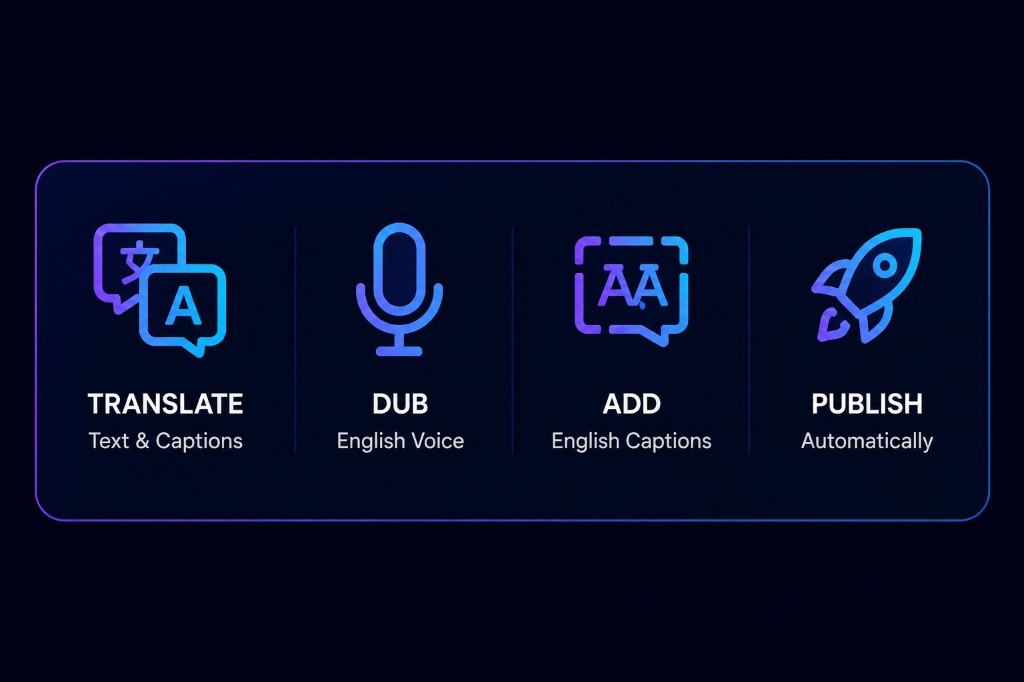
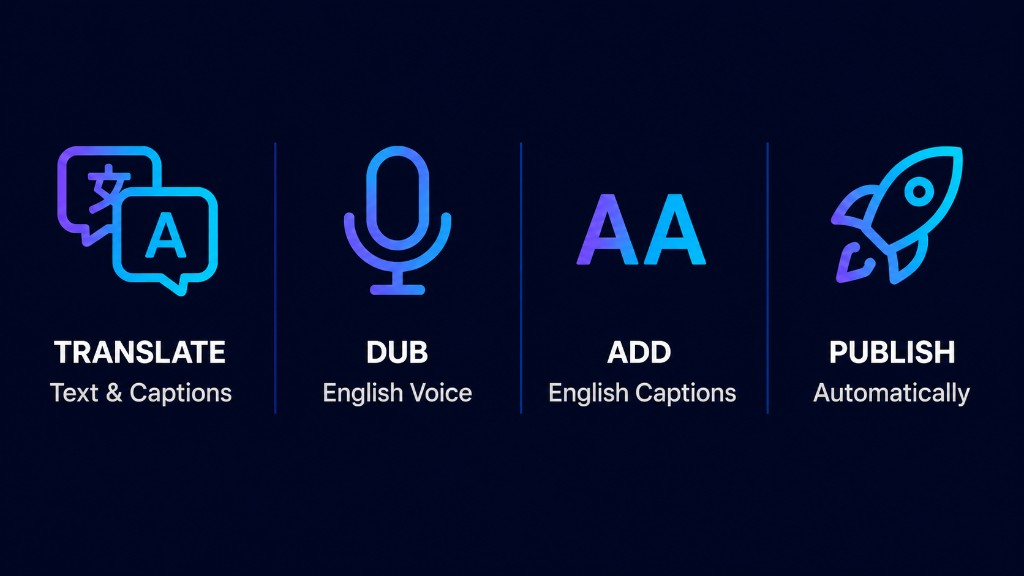
updates to project images

Changed region(s): [[0.0312, 0.2188, 0.9688, 0.7812], [0.5625, 0.3438, 0.6875, 0.5312], [0.3125, 0.5625, 0.4688, 0.7188]]

diff --git a/src/style.css b/src/style.css
@@ -554,6 +554,38 @@ body::-webkit-scrollbar {
   color: rgba(228, 173, 106, 0.98);
 }
 
+.project-card__thumb {
+  flex-shrink: 0;
+  margin-top: 0.5rem;
+  width: clamp(8.15rem, 22vw, 9.85rem);
+  aspect-ratio: 16 / 9;
+  border-radius: 8px;
+  overflow: hidden;
+  box-shadow: 0 4px 20px rgba(0, 0, 0, 0.35);
+  transition: box-shadow 0.18s ease;
+}
+
+/*
+ * Pipeline preview is ~16:9 but has black bars inside the file. A slightly wider
+ * aspect than 16/9 makes object-fit:cover trim top/bottom (no bitmap stretch).
+ */
+.project-card__thumb--bleed {
+  aspect-ratio: 2.15 / 1;
+}
+
+.project-card__thumb--bleed .project-card__image {
+  width: 100%;
+  height: 100%;
+  margin-top: 0;
+  aspect-ratio: unset;
+  min-height: 0;
+  object-fit: cover;
+  object-position: center;
+  display: block;
+  border-radius: 0;
+  box-shadow: none;
+}
+
 .project-card__image {
   width: clamp(8.15rem, 22vw, 9.85rem);
   flex-shrink: 0;
@@ -568,6 +600,11 @@ body::-webkit-scrollbar {
     filter 0.18s ease,
     box-shadow 0.18s ease,
     border-color 0.18s ease;
+}
+
+/* Spotify preview: biased to top, nudged right of hard-left so a bit more right edge shows */
+.project-card__image--focus-left {
+  object-position: 22% top;
 }
 
 .project-card__image--slot {
@@ -659,6 +696,16 @@ body::-webkit-scrollbar {
 .project-card__link:hover .project-card__image:not(.project-card__image--slot),
 .project-card__link:focus-visible .project-card__image:not(.project-card__image--slot) {
   filter: brightness(1.02) saturate(0.96);
+  box-shadow: 0 8px 28px rgba(0, 0, 0, 0.4);
+}
+
+.project-card__link:hover .project-card__thumb .project-card__image,
+.project-card__link:focus-visible .project-card__thumb .project-card__image {
+  box-shadow: none;
+}
+
+.project-card__link:hover .project-card__thumb,
+.project-card__link:focus-visible .project-card__thumb {
   box-shadow: 0 8px 28px rgba(0, 0, 0, 0.4);
 }
 
@@ -1383,6 +1430,12 @@ body::-webkit-scrollbar {
   .project-card__link:focus-visible {
     background: rgba(170, 96, 58, 0.26);
     border-color: transparent;
+  }
+
+  .project-card__thumb {
+    width: 100%;
+    max-width: 15.5rem;
+    margin-top: 0;
   }
 
   .project-card__image {

diff --git a/index.html b/index.html
@@ -305,7 +305,7 @@
               <img
                 class="project-card__image"
                 src="/media-translation-pipeline-preview.png"
-                alt="Four-step pipeline infographic: Translate text and captions, dub English voice, add English captions, publish automatically"
+                alt="AI media pipeline banner with four panels: Translate text and captions, Dub English voice, Add English captions, Publish automatically"
                 loading="lazy"
                 decoding="async"
               />
@@ -338,9 +338,9 @@
               aria-label="Spotify profile stats project"
             >
               <img
-                class="project-card__image"
+                class="project-card__image project-card__image--focus-left"
                 src="/spotify-viewer-preview.png"
-                alt="Spotify profile stats dashboard showing top artists and tracks"
+                alt="Spotify Stats profile view with navigation tabs, user details, followers, and Open in Spotify link"
                 loading="lazy"
                 decoding="async"
               />